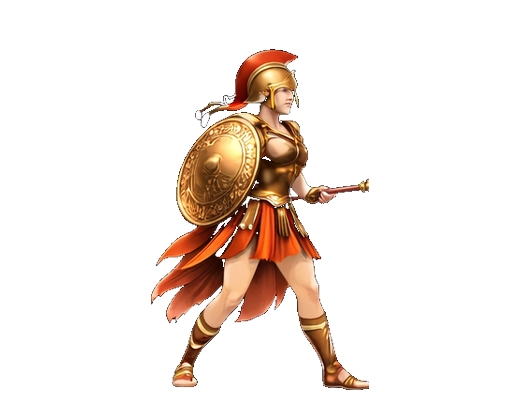
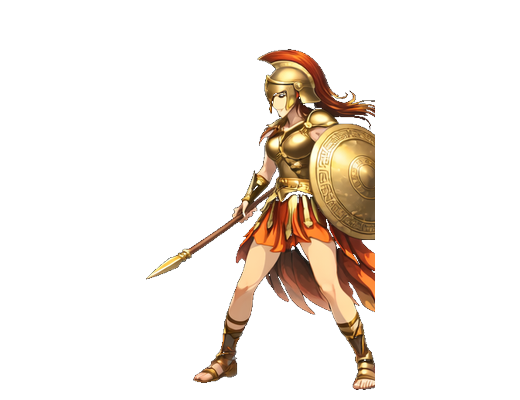
auto-commit for ab649440-b056-42a1-bf0f-c180106626a2

Changed region(s): [[0.2769, 0.12, 0.7385, 0.99]]

diff --git a/frontend/components/ui/HeroHopliteIdleLoop.tsx b/frontend/components/ui/HeroHopliteIdleLoop.tsx
@@ -1,60 +1,57 @@
 /**
- * HeroHopliteIdleLoop — IDLE FRAME-BASED (HARD SWAP + SCALE ALIGNED)
- * ===================================================================
+ * HeroHopliteIdleLoop — IDLE FRAME-BASED (HARD SWAP, REFERENCE v2)
+ * ==================================================================
  *
- * Usa i 5 frame idle DEDICATI (idle_01..idle_05.png). Loop a 5 fasi con
- * SWAP FRAME NETTI — NESSUN CROSSFADE DI OPACITY.
+ * Source of truth: nuova idle sheet approvata dall'utente (v2, 5 pose).
+ *   1. IDLE BASE           — spear dietro, guardia neutra
+ *   2. BREATH IN START     — spear scende laterale
+ *   3. GUARD TIGHT PEAK    — spear forward, stance compatta (key peak)
+ *   4. SETTLE OPEN         — spear torna laterale
+ *   5. LOOP RETURN         — ritorno a IDLE BASE (loop seamless)
  *
- * ANCHOR GEOMETRY (misurata dai PNG reali, non assunta):
- *   canvas: 520×400
- *   bbox corpo: (x:140..379, y:59..382)   → body_h = 323px
- *   feet Y:  382  (era 390 wrongly)
- *   body_h:  323  (era 341 wrongly → frame era ~5.3% più piccolo)
+ * TIMING (richiesto utente — frame 3 più corto per evitare sensazione attack-like):
+ *   Frame 1 → 520ms   (stabile)
+ *   Frame 2 → 360ms   (transizione)
+ *   Frame 3 → 260ms   (peak breve, evita "attack-like")
+ *   Frame 4 → 360ms   (transizione)
+ *   Frame 5 → 520ms   (stabile, pre-loop)
+ *   Totale ciclo = 2020ms
  *
- * Questi due valori sono la VERA ragione per cui l'idle risultava
- * visibilmente più piccolo dell'Affondo (che ha body_h=341 reali) e
- * leggermente più in basso.
+ * RENDERING:
+ *  - Un solo <Image> renderizzato alla volta → ZERO ghosting, ZERO alone.
+ *  - Swap frame netti (setTimeout + state swap), NO opacity crossfade.
+ *  - Nessun translateY / scaleY / bob wrapper.
+ *  - scaleX: -1 per facing coerente con Affondo/GuardiaFerrea.
  *
- * LEGGIBILITÀ:
- *  - Timing non-uniforme (emphasis su breath peak):
- *      #1 IDLE BASE     480ms   (baseline, pausa respiro)
- *      #2 BREATH IN     360ms   (transizione fluida)
- *      #3 BREATH PEAK   620ms   (KEY — posa caratteristica tenuta più a lungo)
- *      #4 SETTLE        360ms   (ritorno)
- *      #5 LOOP RETURN   480ms   (pre-loop)
- *    Total cycle: 2300ms (era 3000ms → più vivo).
- *  - Un solo <Image> renderizzato → zero ghosting, zero alone.
- *
- * Canvas/scale identici a Affondo/GuardiaFerrea → ZERO scatto quando
- * BattleSprite transiziona tra idle ↔ attack ↔ skill.
+ * GEOMETRIA (allineata ad Affondo/GuardiaFerrea):
+ *   Canvas 520×400, feet anchor (260, 390), body_h reale = 341px.
+ *   → stessa presenza scenica, zero scatto su transizioni idle↔attack↔skill.
  */
 import React, { useEffect, useRef, useState } from 'react';
 import { View, Image, StyleSheet } from 'react-native';
 import { HOPLITE_IDLE_ASSETS } from './hopliteAssetManifest';
 
-const FRAMES = HOPLITE_IDLE_ASSETS;    // 5 frame idle dedicati
+const FRAMES = HOPLITE_IDLE_ASSETS;    // 5 frame idle (sheet v2)
 
-// Durate per-frame (ms) — non uniformi per enfatizzare breath peak
+// Durate per-frame (ms) — da richiesta utente Msg 510
 const FRAME_DURATIONS_MS = [
-  480,  // #1 IDLE BASE
+  520,  // #1 IDLE BASE
   360,  // #2 BREATH IN START
-  620,  // #3 BREATH PEAK (key anchor)
-  360,  // #4 SETTLE
-  480,  // #5 LOOP RETURN
+  260,  // #3 GUARD TIGHT PEAK  (più corto: evita sensazione attack-like)
+  360,  // #4 SETTLE OPEN
+  520,  // #5 LOOP RETURN
 ];
 
-// Canvas nativo dei frame (520×400, feet baseline comune a tutta la suite)
+// Canvas nativo dei frame (520×400, feet baseline comune alla suite)
 const FRAME_W = 520;
 const FRAME_H = 400;
-// Feet Y REALE dei nuovi PNG idle rigenerati (allineato ad Affondo: 390)
 const FEET_CX_IN_FRAME = 260;
 const FEET_CY_IN_FRAME = 390;
 
 // Allineamento feet-to-ground (stesso schema di Affondo/GuardiaFerrea)
 const RIG_FEET_Y_NORM = 800 / 1024;
 const RIG_BODY_H_NORM = 0.683;
-// Body height REALE dei nuovi PNG idle rigenerati: 341 (identica ad Affondo
-// → zero differenza di scala tra idle/attack/skill).
+// Body height REALE dei PNG v2 = 341px (esattamente come Affondo)
 const FRAME_BODY_H_PX = 341;
 
 type Props = {
